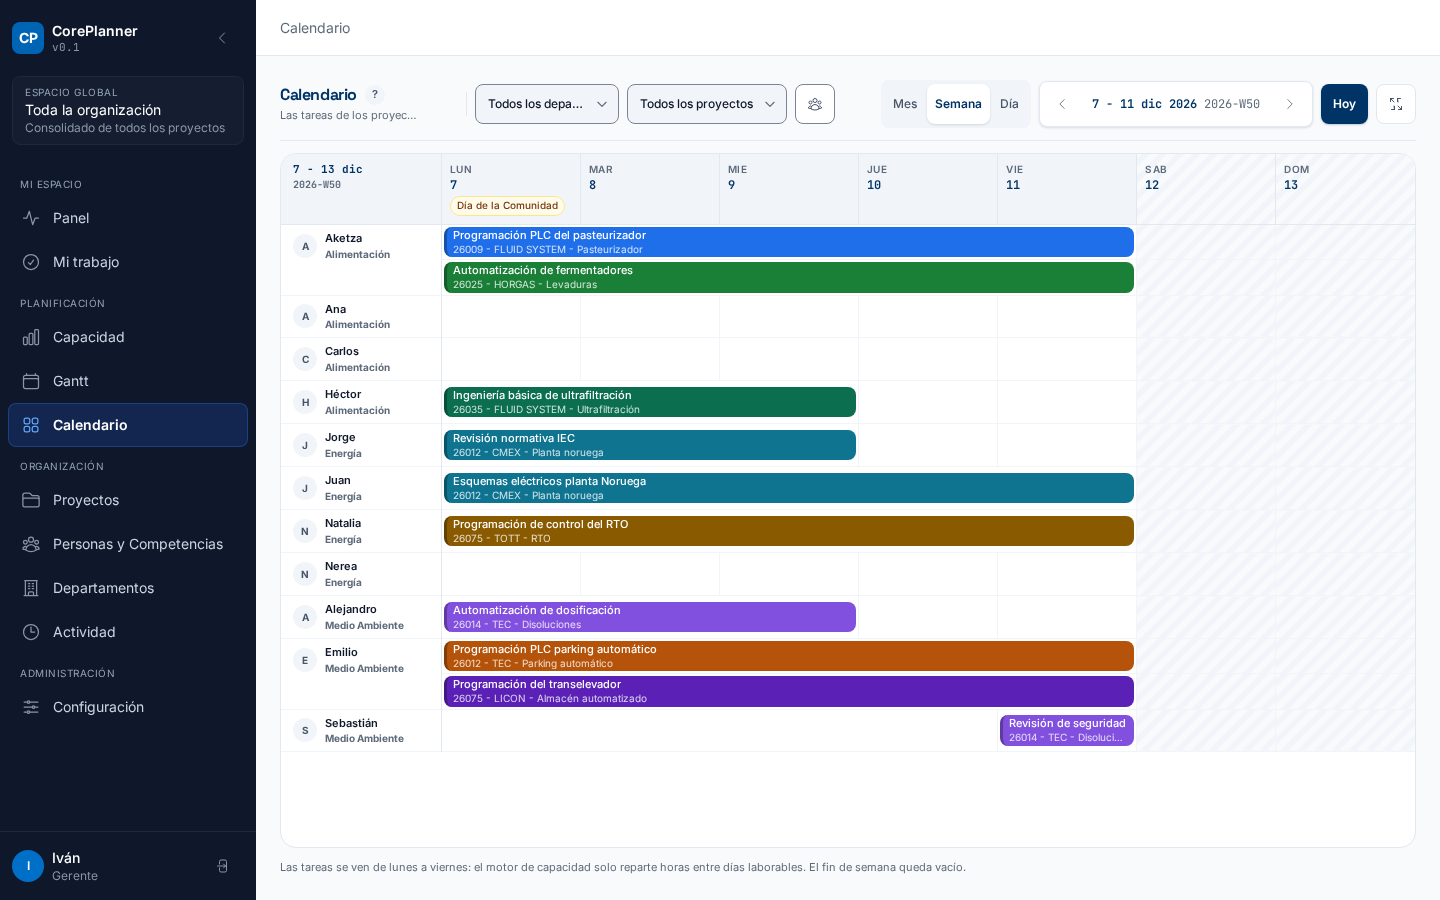
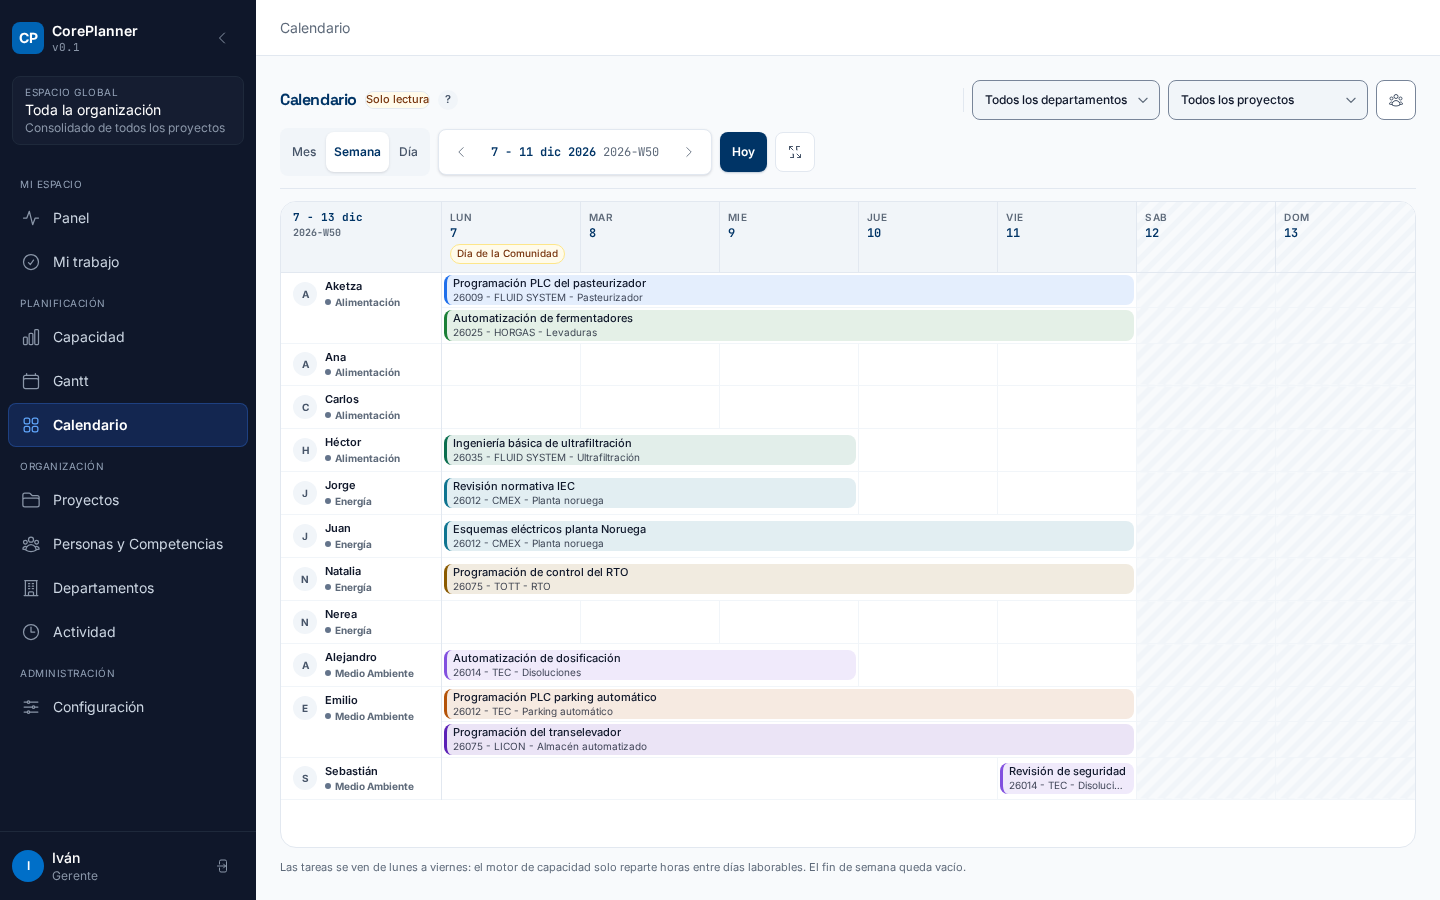
feat(calendario): la barra de tarea lleva relleno claro y borde de color
Ultimo punto de la comparativa con el boceto, y el unico donde el boceto
llevaba la mejor idea: la barra del calendario se pintaba con el color del
proyecto como fondo y el texto en blanco u oscuro segun el contraste. Con el
color saturado, un titulo largo se lee mal.

Ahora lleva relleno claro (el color del proyecto al 12 %) y borde izquierdo de
3 px en el color del proyecto, con el texto en el token de texto. El proyecto
sigue identificando la barra en el borde y la lectura aguanta mejor.

El diagrama de Gantt no cambia: ahi la barra sigue con el color del proyecto
como fondo y su texto con el contraste calculado.

`utils/statusColor.js` exporta la mezcla con blanco que ya tenia.

diff --git a/frontend/src/components/calendar/CalendarBar.vue b/frontend/src/components/calendar/CalendarBar.vue
@@ -2,15 +2,16 @@
 /**
  * La barra de una tarea dentro de sus sub-filas.
  *
- * Pinta el cuerpo de la barra con el color del proyecto y los datos de la
- * celda en los atributos `data-*` que el arrastre y los tests leen:
- * `data-task-id`, `data-lane` y, de la celda, `data-inicio` y
- * `data-columnas`. El color de fondo es el del proyecto, nunca la paleta
- * por persona.
+ * Pinta el cuerpo de la barra con un relleno claro del color del proyecto
+ * (el color al 12 %, `conBlanco`) y un borde izquierdo de 3 px en el color
+ * del proyecto tal cual, y los datos de la celda en los atributos `data-*`
+ * que el arrastre y los tests leen: `data-task-id`, `data-lane` y, de la
+ * celda, `data-inicio` y `data-columnas`. El color es el del proyecto,
+ * nunca la paleta por persona.
  *
- * El texto de la barra (titulo y nombre de proyecto) se pinta con el color
- * que llega a 4.5:1 sobre el color del proyecto, elegido en `estiloBarra`;
- * sin color de proyecto se queda el blanco de la clase.
+ * El texto de la barra (titulo y nombre de proyecto) va en el token de texto
+ * (`--cp-texto`): sobre el relleno claro el contraste es holgado. Sin color
+ * de proyecto se queda el blanco de la clase.
  *
  * La barra se agarra con `mousedown` (boton izquierdo, fuera de controles):
  * el cuerpo emite `drag-start` con `zona: 'body'` y cada asa de redimension
@@ -32,7 +33,7 @@
  * es la descripcion completa de la tarea; sin permiso de escritura la barra
  * se anuncia deshabilitada, pero sigue enfocable para leerse.
  */
-import { textoSobre } from '../../utils/statusColor'
+import { conBlanco } from '../../utils/statusColor'
 
 const props = defineProps({
   /** Barra con su celda: {tarea, inicio, fin, carril, span}. */
@@ -90,20 +91,12 @@ function alMenuContexto(event) {
   })
 }
 
-/** Oscurecer un hex un 28 %: el borde de la barra repite el color del proyecto. */
-function oscurecer(hex, factor = 0.72) {
-  const canal = (valor) =>
-    Math.round(Math.min(255, Math.max(0, valor * factor))).toString(16).padStart(2, '0')
-  const limpio = (hex ?? '').replace('#', '')
-  if (limpio.length < 6) return hex
-  return `#${canal(parseInt(limpio.slice(0, 2), 16))}${canal(parseInt(limpio.slice(2, 4), 16))}${canal(parseInt(limpio.slice(4, 6), 16))}`
-}
-
 /**
- * Estilo en linea de la barra: el color del proyecto en el fondo, ese mismo
- * color oscurecido como borde izquierdo, para que la barra se lea como una
- * etiqueta de proyecto, y el color del texto que llega a 4.5:1 sobre el
- * fondo. En linea porque el color llega en hex del backend.
+ * Estilo en linea de la barra: el color del proyecto al 12 % de relleno
+ * (claro, para que un titulo largo se lea), ese mismo color tal cual como
+ * borde izquierdo de 3 px (sobre el relleno claro el color se lee) y el
+ * token de texto como color de texto (sobre el relleno claro el contraste
+ * es holgado). En linea porque el color llega en hex del backend.
  *
  * La barra provisional no lleva relleno ni borde de color: el fondo `bg-tarjeta`
  * y el contorno punteado lo da la clase; un estilo en linea del proyecto
@@ -114,9 +107,9 @@ function estiloBarra(tarea) {
   const color = tarea.project_color
   if (!color) return {}
   return {
-    backgroundColor: color,
-    borderLeftColor: oscurecer(color),
-    color: textoSobre(color),
+    backgroundColor: conBlanco(color, 0.12),
+    borderLeftColor: color,
+    color: 'rgb(var(--cp-texto))',
   }
 }
 </script>

diff --git a/frontend/src/tests/CalendarView.spec.js b/frontend/src/tests/CalendarView.spec.js
@@ -12,6 +12,7 @@ import CalendarWeek from '../components/calendar/CalendarWeek.vue'
 import CalendarView from '../views/CalendarView.vue'
 import { useToastStore } from '../stores/toast'
 import { buildWeekLayout } from '../utils/calendarLayout'
+import { conBlanco } from '../utils/statusColor'
 import { weekDays } from '../utils/weeks'
 
 const feed = {
@@ -89,6 +90,18 @@ function esperaColor(elemento, hex) {
   expect(estilo).toMatch(
     new RegExp(`background-color:\\s*(#${hex.slice(1)}|rgb\\(${rgb}\\))`, 'i'),
   )
+}
+
+/**
+ * Comprueba que la barra de tarea se pinte con el color de su proyecto:
+ * tinte del 12 % en el relleno y el color tal cual en el borde izquierdo.
+ */
+function esperaBarraProyecto(elemento, hex) {
+  const estilo = elemento.attributes('style') ?? ''
+  // jsdom normaliza el color a rgb al serializar el estilo.
+  const aRgb = (color) => color.slice(1).match(/.{2}/g).map((par) => parseInt(par, 16)).join(', ')
+  expect(estilo).toContain(`background-color: rgb(${aRgb(conBlanco(hex, 0.12))})`)
+  expect(estilo).toContain(`border-left-color: rgb(${aRgb(hex)})`)
 }
 
 /** Ambito de quien entra: los proyectos en los que puede escribir. */
@@ -410,20 +423,20 @@ describe('CalendarView', () => {
     const { wrapper } = await mountView()
 
     const semanas = wrapper.findAll('[data-testid="week-lanes"]')
-    esperaColor(semanas[1].find('[data-testid="week-task"]'), '#1f6feb')
-    esperaColor(semanas[2].find('[data-testid="week-task"]'), '#0a3d91')
+    // Relleno claro del color (12 %) y borde izquierdo en el color tal cual.
+    esperaBarraProyecto(semanas[1].find('[data-testid="week-task"]'), '#1f6feb')
+    esperaBarraProyecto(semanas[2].find('[data-testid="week-task"]'), '#0a3d91')
   })
 
-  it('el texto de la barra se pinta con el color que llega a 4.5:1 sobre el fondo', async () => {
+  it('el texto de la barra va en el token de texto: el relleno claro aguanta el contraste', async () => {
     const { wrapper } = await mountView()
 
     const semanas = wrapper.findAll('[data-testid="week-lanes"]')
-    // Ambos fondos de la prueba son oscuros: el texto se queda blanco.
     expect(semanas[1].find('[data-testid="week-task"]').attributes('style')).toContain(
-      'color: rgb(255, 255, 255)',
+      'color: rgb(var(--cp-texto))',
     )
     expect(semanas[2].find('[data-testid="week-task"]').attributes('style')).toContain(
-      'color: rgb(255, 255, 255)',
+      'color: rgb(var(--cp-texto))',
     )
   })
 
@@ -1620,7 +1633,7 @@ describe('CalendarWeek', () => {
     const barra = wrapper.find('[data-testid="week-task"]')
     expect(barra.text()).toContain('Programacion')
     expect(barra.text()).toContain('Linea Pasteurizadora SIVE')
-    esperaColor(barra, '#1f6feb')
+    esperaBarraProyecto(barra, '#1f6feb')
   })
 
   it('la barra de un proyecto provisional va de contorno, sin relleno', () => {
@@ -1637,8 +1650,7 @@ describe('CalendarWeek', () => {
     })
 
     const [firme, provisional] = wrapper.findAll('[data-testid="week-task"]')
-    expect(firme.classes()).toContain('text-sobre-primario')
-    esperaColor(firme, '#1f6feb')
+    esperaBarraProyecto(firme, '#1f6feb')
     // Sin relleno, con el contorno punteado y la nota en el aviso.
     expect(provisional.classes().join(' ')).toContain('border-dashed')
     expect(provisional.attributes('style')).toContain('background-color: transparent')

diff --git a/frontend/src/tests/statusColor.spec.js b/frontend/src/tests/statusColor.spec.js
@@ -3,6 +3,7 @@ import { describe, expect, it } from 'vitest'
 import { PALETTE } from '../utils/palette'
 import {
   barra,
+  conBlanco,
   contraste,
   luminancia,
   NEUTRO_BARRA,
@@ -53,6 +54,22 @@ describe('pildora', () => {
     expect(pildora(null)).toEqual(NEUTRO_PILDORA)
     expect(pildora('nada')).toEqual(NEUTRO_PILDORA)
     expect(pildora('#123')).toEqual(NEUTRO_PILDORA)
+  })
+})
+
+describe('conBlanco', () => {
+  it('mezcla el color con blanco: la fraccion del color y el resto blanco', () => {
+    expect(conBlanco('#1f6feb', 0.12)).toBe('#e4eefd')
+  })
+
+  it('fraccion 1 deja el color tal cual y fraccion 0 deja el blanco', () => {
+    expect(conBlanco('#1f6feb', 1)).toBe('#1f6feb')
+    expect(conBlanco('#1f6feb', 0)).toBe('#ffffff')
+  })
+
+  it('sin color valido, null', () => {
+    expect(conBlanco(null, 0.12)).toBeNull()
+    expect(conBlanco('#zzzzzz', 0.12)).toBeNull()
   })
 })
 

diff --git a/frontend/src/utils/statusColor.js b/frontend/src/utils/statusColor.js
@@ -13,6 +13,9 @@
  * La misma matematica sirve para el texto sobre el color de un proyecto
  * (la barra del Gantt y la del calendario): `textoSobre` elige el color del
  * texto para que llegue a 4.5:1 contra el fondo, que es dato del backend.
+ *
+ * La mezcla con blanco (`conBlanco`) es publica: la barra del calendario
+ * pinta el color del proyecto al 12 % como relleno claro.
  */
 
 /**
@@ -36,7 +39,7 @@ function hexACanal(hex) {
 }
 
 /** Mezcla un color con blanco: `fraccion` del color y el resto blanco. */
-function conBlanco(hex, fraccion) {
+export function conBlanco(hex, fraccion) {
   const color = hexACanal(hex)
   if (color === null) return null
   const canal = (n) =>

diff --git a/SESSION.md b/SESSION.md
@@ -2,67 +2,74 @@
 
 ## Objetivo actual
 
-Cabecera en una linea (informe `_informes/15_cabecera_una_linea.md`): la
-cascada de acciones del Gantt (secciones 3, 4, 7.4 y 11-3 del informe) y el
-cierre de la fila `h-8` → suelo tactil de 40 px.
+Sistema de diseno del frontend a partir del boceto `docs/diseno_nuevo.html`:
+un unico fichero de tokens de color (`frontend/src/assets/tokens.css`) que
+`tailwind.config.js` mapea a clases semanticas, tipografias locales, y la
+migracion de toda la interfaz a esos tokens sin cambiar comportamiento.
+
+Cerrado, con la comparativa contra el boceto ejecutada (77 hallazgos, las dos
+sesiones aplicadas: cabeceras y cuerpo).
+
+Verificacion: `npm test` 1093/1093 (57 ficheros), `npm run build` OK,
+`npm run verify:css` OK, `.venv/bin/pytest` 616 en verde y
+`.venv/bin/ruff check backend` limpio. Cero colores sueltos en el codigo de la
+aplicacion, vigilado por `frontend/src/tests/tokens.spec.js` en modo estricto.
 
 ## Cambios realizados
 
-- `GanttView.vue`: colapsar/expandir todo con el markup 7.4 (40×40 con
-  `chevronUpDown` <xl, `aria-label`/`title`, testids intactos); `Ruta crítica`
-  y el rango (← Hoy → Completo) a `min-h-10`; export `.ics` a icono <xl;
-  grupo de zoom `h-8` → `h-10` con `w-full xl:w-auto` (cae a la segunda linea
-  por debajo de `xl`); fullscreen `h-10`.
-- `VisibilityPanel.vue`: toggle 40×40 con icono `users` <xl, texto
-  `hidden xl:inline`, activo con `border-primario-fuerte` +
-  `aria-pressed`, contador `hidden-count` siempre visible.
-- `SegmentedControl.vue`: opciones `px-3` → `px-2 … xl:px-3` (compacto <xl).
-- `AppIcon.vue`: icono `download` (arrow-down-tray) para el export.
-- `CapacityMatrix.vue`: verificado ya conforme 7.5 (navegador, provisional y
-  Hoy a `min-h-10`, sin `h-8`) — sin cambios.
-- En el arbol tambien: la primera tanda de la cabecera (PageHeader/FilterField
-  en slot, bandas de filtros), la migracion de tokens y las tandas anteriores
-  de botones de ayuda y revision visual; todo sigue sin commit.
-
-## Validacion
-
-- `npm test`: 57 ficheros, 1079 tests, todos verdes.
-- `npm run build`: OK. `npm run verify:css`: OK (506 clases en el bundle).
-- Grep `h-8|w-8` en `GanttView.vue`, `CapacityMatrix.vue`,
-  `VisibilityPanel.vue`: 0 apariciones.
+- `frontend/src/assets/tokens.css` (nuevo): 105 tokens `--cp-*` en canales RGB
+  (marca, superficie, texto, borde, lateral, estado, escala de carga de 28,
+  medidas y tramas). Unico fichero de valores.
+- `frontend/tailwind.config.js`: la escala `siemens` desaparece; los tokens se
+  mapean a clases semanticas, con `fontFamily` (sans, mono, titulo), `fontSize`
+  con prefijo `cp-`, `borderRadius` y `boxShadow` desde variables.
+- Tipografias locales con `@fontsource-variable/*` (Inter, JetBrains Mono,
+  Space Grotesk): los `.woff2` se empaquetan, sin CDN ni red en runtime.
+- `frontend/src/utils/load.js`: la escala de carga pasa a 28 tokens, con clases
+  literales. La regla no cambia: la sobrecarga lleva triangulo y porcentaje; la
+  capacidad desconocida no lleva barra ni porcentaje.
+- `frontend/src/utils/statusColor.js`: `textoSobre(hex)` elige el color del
+  texto que va sobre el color de un proyecto, para llegar a 4,5:1.
+- Toda la interfaz migrada a tokens: armazon, barra lateral, cabeceras de
+  vista, tablas, tarjetas, tablero, calendario, Gantt, dialogos y avisos.
+- Cabecera de vista en una linea: filtros junto al titulo, etiqueta en linea,
+  desplegable acotado, subtitulo fuera (su texto va en el boton de ayuda) y
+  cascada de acciones que compacta a icono antes de esconder.
+- Boton de ayuda en las siete cabeceras que lo tenian en el boceto.
+- Filtros de la bitacora por persona, proyecto y tipo de evento, aplicados en
+  el servidor (`GET /api/activity` acepta `actor_id` y `action`).
+- Componentes nuevos: `KpiCard`, `BaseCard`, `HelpTip`. `SegmentedControl`,
+  `FilterField`, `PageHeader`, `ModalDialog`, `ToastHost` y `AlertBanner`
+  adoptan el nuevo lenguaje sin cambiar su API.
 
 ## Decisiones tecnicas
 
-- Zoom a segunda linea con `w-full xl:w-auto` sobre el wrapper (el grupo de
-  acciones de PageHeader es `flex-wrap`); PageHeader no se toca mas.
-- `Ruta crítica` y `Completo` quedan como botones de texto (fuera de la
-  cascada del informe); solo suben a `min-h-10`.
-- `hidden-count` visible en todo viewport: es el indicador de estado del
-  interruptor; en <xl el contador es el unico texto.
-- Activo nunca solo por color: `aria-pressed`/`aria-expanded` + estilo.
-- Tests solo asercion por `data-testid`/`aria` en estos botones → cambios de
-  clase compatibles sin tocar specs.
+- Los tokens se nombran **por funcion**, no por tono ni por marca: `primario`,
+  `superficie`, `texto`, `lateral-*`, `ok/aviso/peligro/info/neutro-*`,
+  `carga-<estado>-*`. La escala `siemens` no deja alias.
+- Las medidas nuevas de texto llevan prefijo `cp-` (`text-cp-sm` = 12 px):
+  mapear `--cp-texto-*` sobre `text-xs`/`text-sm` de Tailwind cambiaria el
+  significado de esas clases en toda la app.
+- El color de proyecto, persona, departamento y estado lo decide el backend y
+  se pinta con estilo en linea; el frontend no lo calcula.
+- Contraste y area tactil por encima del boceto: 4,5:1 en texto, 3:1 en
+  graficos, 40 px de objetivo y 44 px en menu lateral y cabecera del shell.
+- La capacidad semanal del panel es la suma de las capacidades conocidas (la
+  misma regla que el equipo y cada departamento) y publica cuantas personas
+  quedan fuera del denominador.
+- El codigo de proyecto no es un campo del modelo: se parsea del nombre, que
+  lo lleva delante ("26009 - FLUID SYSTEM - Pasteurizador").
+- Sin tema oscuro todavia, pero la infraestructura esta lista: un tema futuro
+  es un bloque `[data-tema='...']` en `tokens.css`.
 
 ## Pendientes / Siguiente paso inmediato
 
-1. **Cerrar el likeness con el boceto** (comparativa en
-   `/root/proyectos/_informes/16_comparativa_boceto.md`, 77 hallazgos). Dos sesiones:
-   - **Cabeceras**: filtros de Actividad (persona, proyecto, tipo) y buscador de
-     Personas (lo unico que falta de funcion); quitar el subtitulo truncado de
-     la cabecera; subir los `max-w` de los filtros (190/200 px) para que no se
-     recorten; subir el segmentado de escala del Gantt a la primera linea y
-     compactar el zoom; llevar la tira de pestanas de Configuracion y los
-     filtros de la Lista de tareas al slot de la cabecera; anclar el tooltip de
-     ayuda al otro lado para que no tape los filtros; insignia de "solo
-     lectura" en el calendario.
-   - **Cuerpo**: los 30 puntos de piel (insignias y pastillas que faltan, avatar
-     en la columna de personas de Capacidad, punto del departamento en
-     Calendario y Personas, leyenda de carga arriba, filas de proyecto de
-     Departamentos, insignia del tipo de evento en Actividad, pie con los
-     miembros en Departamentos, barra vacia del Panel, chip de festivo de Mi
-     trabajo, espacios y etiqueta de estado en Actividad, tablas que se cortan
-     en Personas y Lista, "Semana Sem 48" duplicado).
-2. Cambios de las sesiones anteriores que siguen en el arbol, por aprobar por
+1. Cambios de las sesiones anteriores que siguen en el arbol, por aprobar por
    separado (incluida la correccion del calendario).
-3. Sin tema oscuro, sin boton de ayuda en las vistas que no lo tienen y sin
-   `.ics` (planificado, fuera de v1).
+2. Sin tema oscuro y sin `.ics` (planificado, fuera de v1).
+3. La barra de tarea del calendario: el boceto la lleva con relleno claro al
+   12 % y borde izquierdo del color del proyecto (con texto oscuro), en vez del
+   color del proyecto como fondo. Es el unico punto donde el boceto avanza y
+   quedo sin aplicar: la decision estaba tomada, pero no se llego a ejecutar.
+4. El `.ics` del Gantt esta planificado pero pendiente; la exportacion del Gantt
+   sigue fuera de v1.

diff --git a/CHANGELOG.md b/CHANGELOG.md
@@ -7,6 +7,10 @@ Versionado segun [SemVer](https://semver.org/lang/es/).
 
 ### Added
 
+- **frontend**: la bitacora tiene filtros de persona, de proyecto y de tipo de evento, y
+  se aplican en el servidor (`GET /api/activity` acepta `actor_id` y `action`): antes era
+  un scroll infinito. Los tres viajan en la URL. Personas lleva el buscador en la
+  cabecera.
 - **frontend**: las cabeceras de vista llevan un boton de ayuda con el texto que explica
   la pantalla (calendario, capacidad, Gantt, proyectos, personas, actividad y
   configuracion). El tooltip se abre al pasar por encima, al enfocar y al hacer clic, y
@@ -45,6 +49,12 @@ Versionado segun [SemVer](https://semver.org/lang/es/).
 
 ### Changed
 
+- **frontend**: las cabeceras de vista caben en una linea: los filtros van junto al titulo
+  (con la etiqueta en linea, no encima) y las acciones a la derecha. El subtitulo
+  desaparece (su texto va en el boton de ayuda), los filtros se ensanchan para que no se
+  recorten y el tooltip de ayuda se ancla al otro lado para que no tape los filtros.
+  Configuracion lleva la tira de pestanas en la cabecera y la lista de tareas sus
+  filtros.
 - **frontend**: toda la interfaz se pinta con tokens: barra lateral, cabeceras de
   vista, tablas, tarjetas, tablero, calendario, diagrama de Gantt, diálogos y avisos.
   Sin cambios de comportamiento: rutas, estado en la URL, permisos, `data-testid` y
